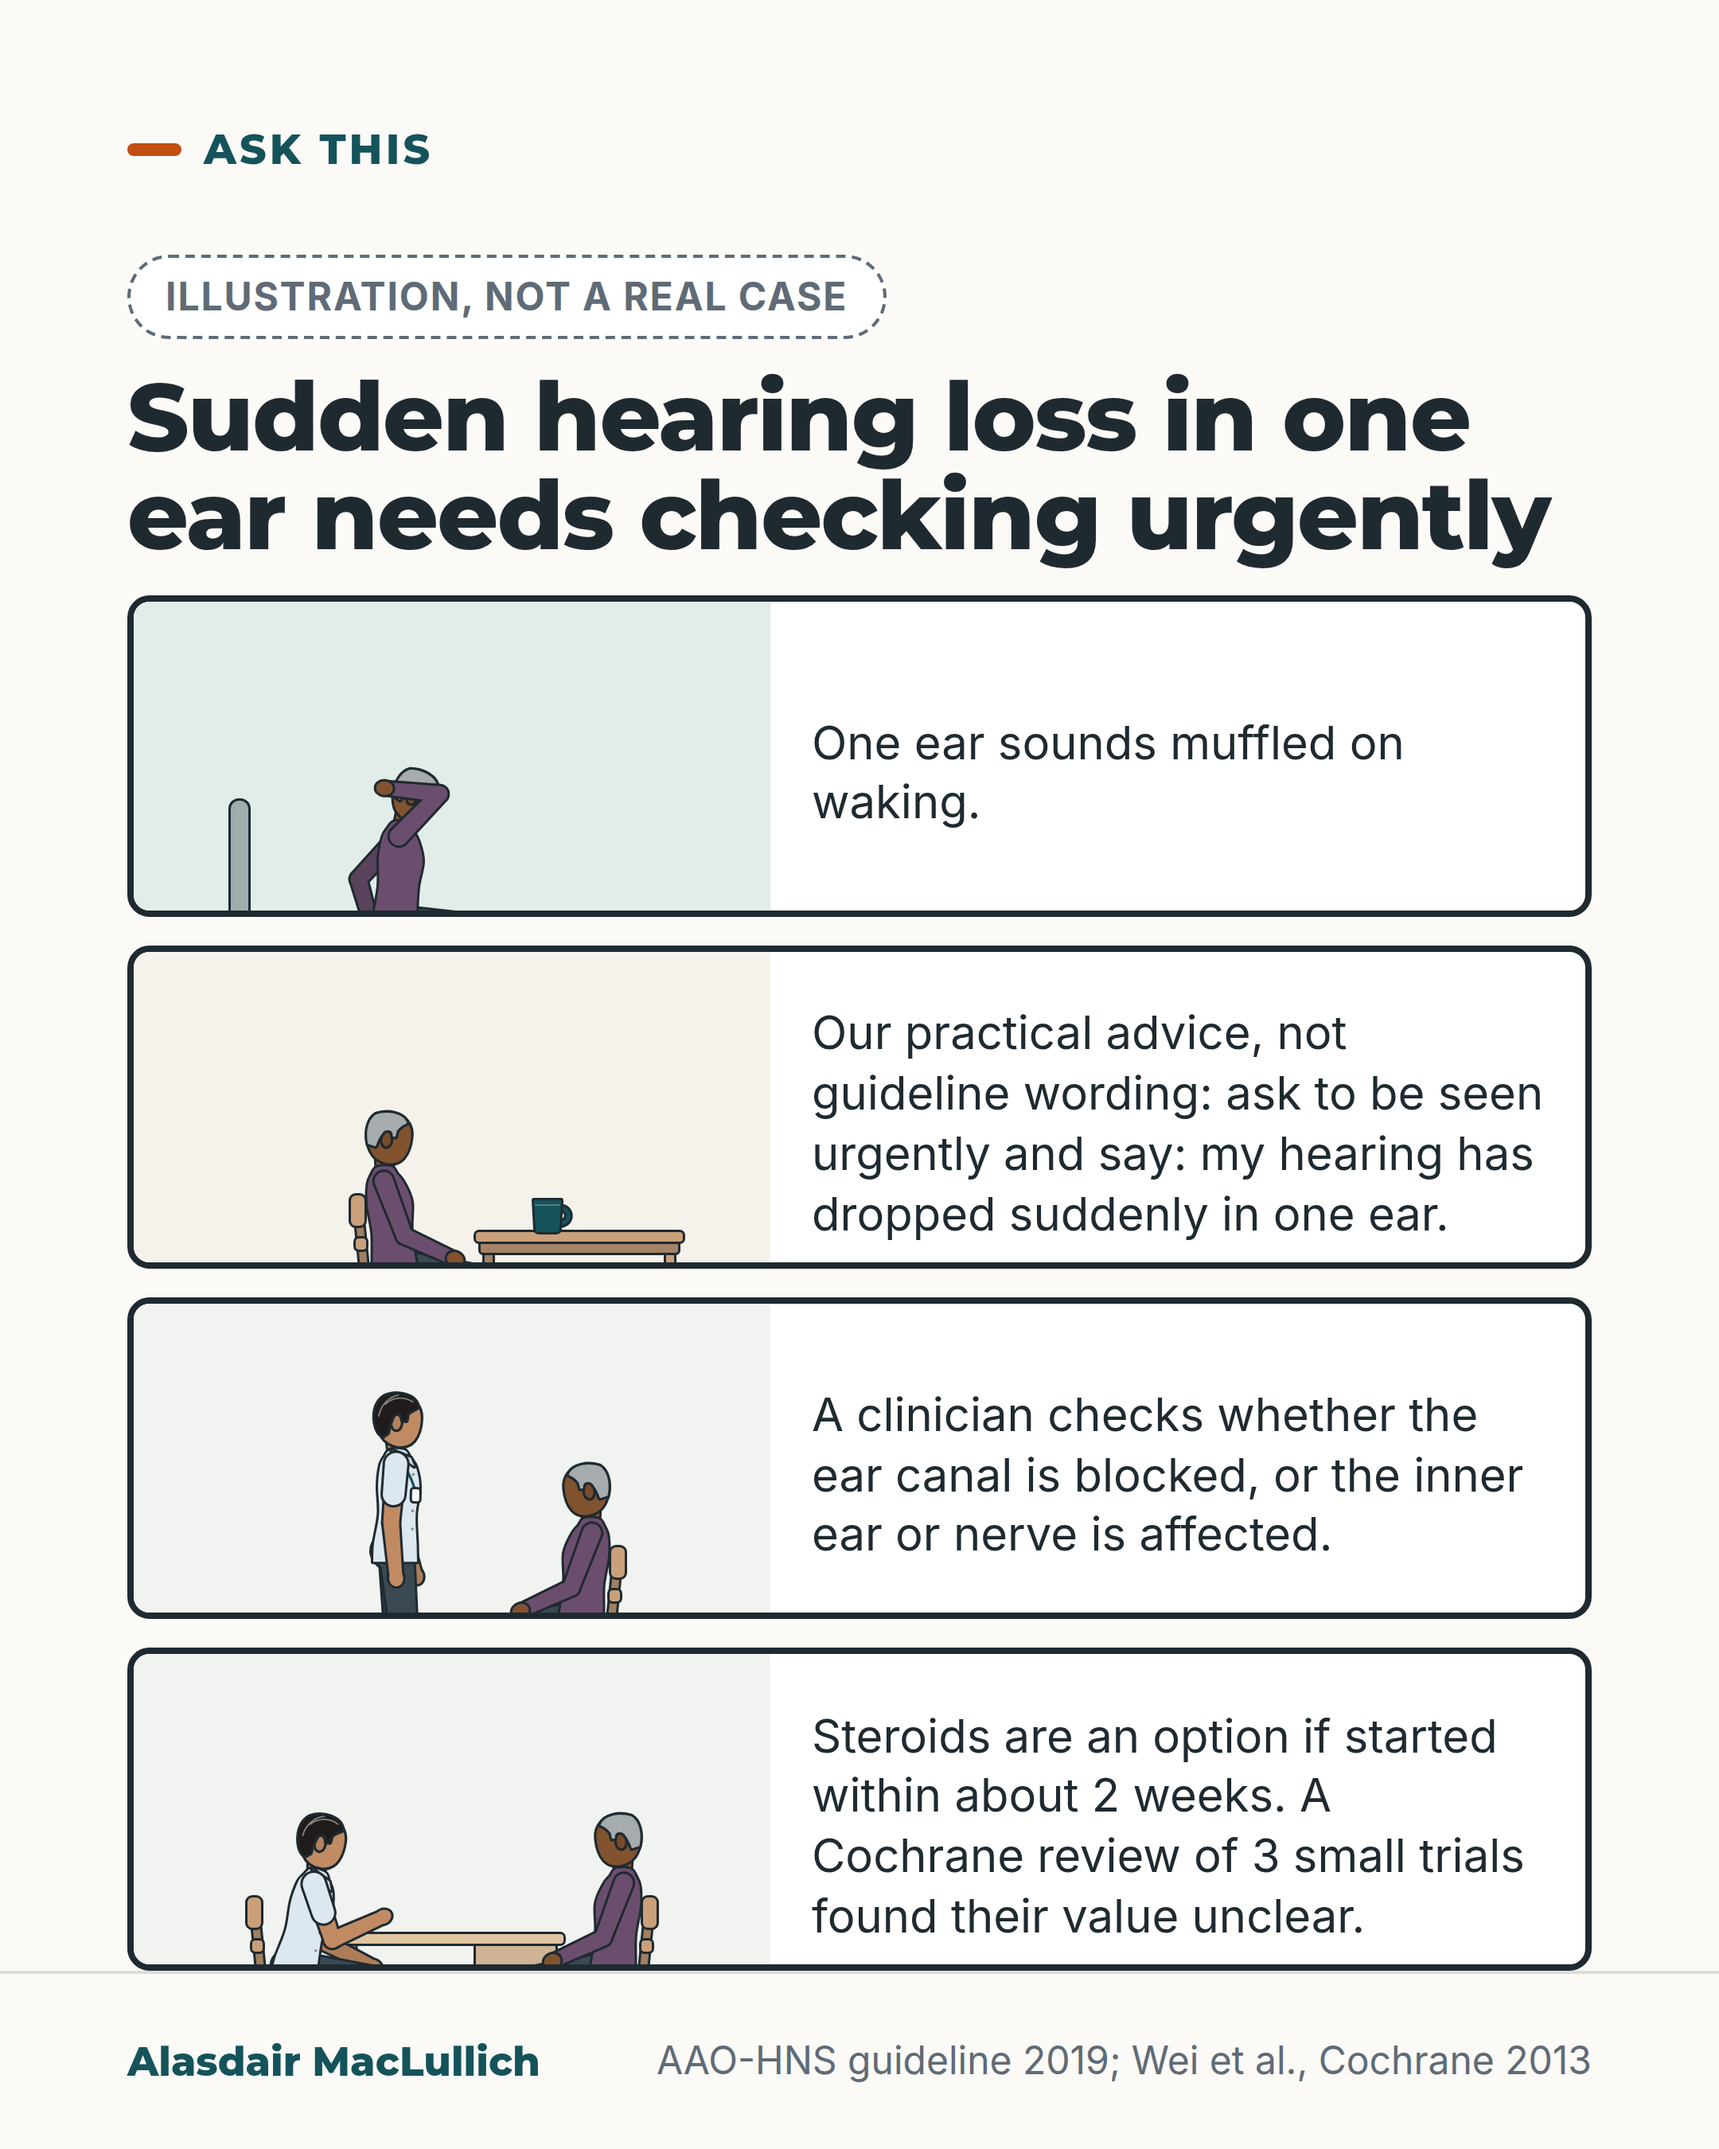
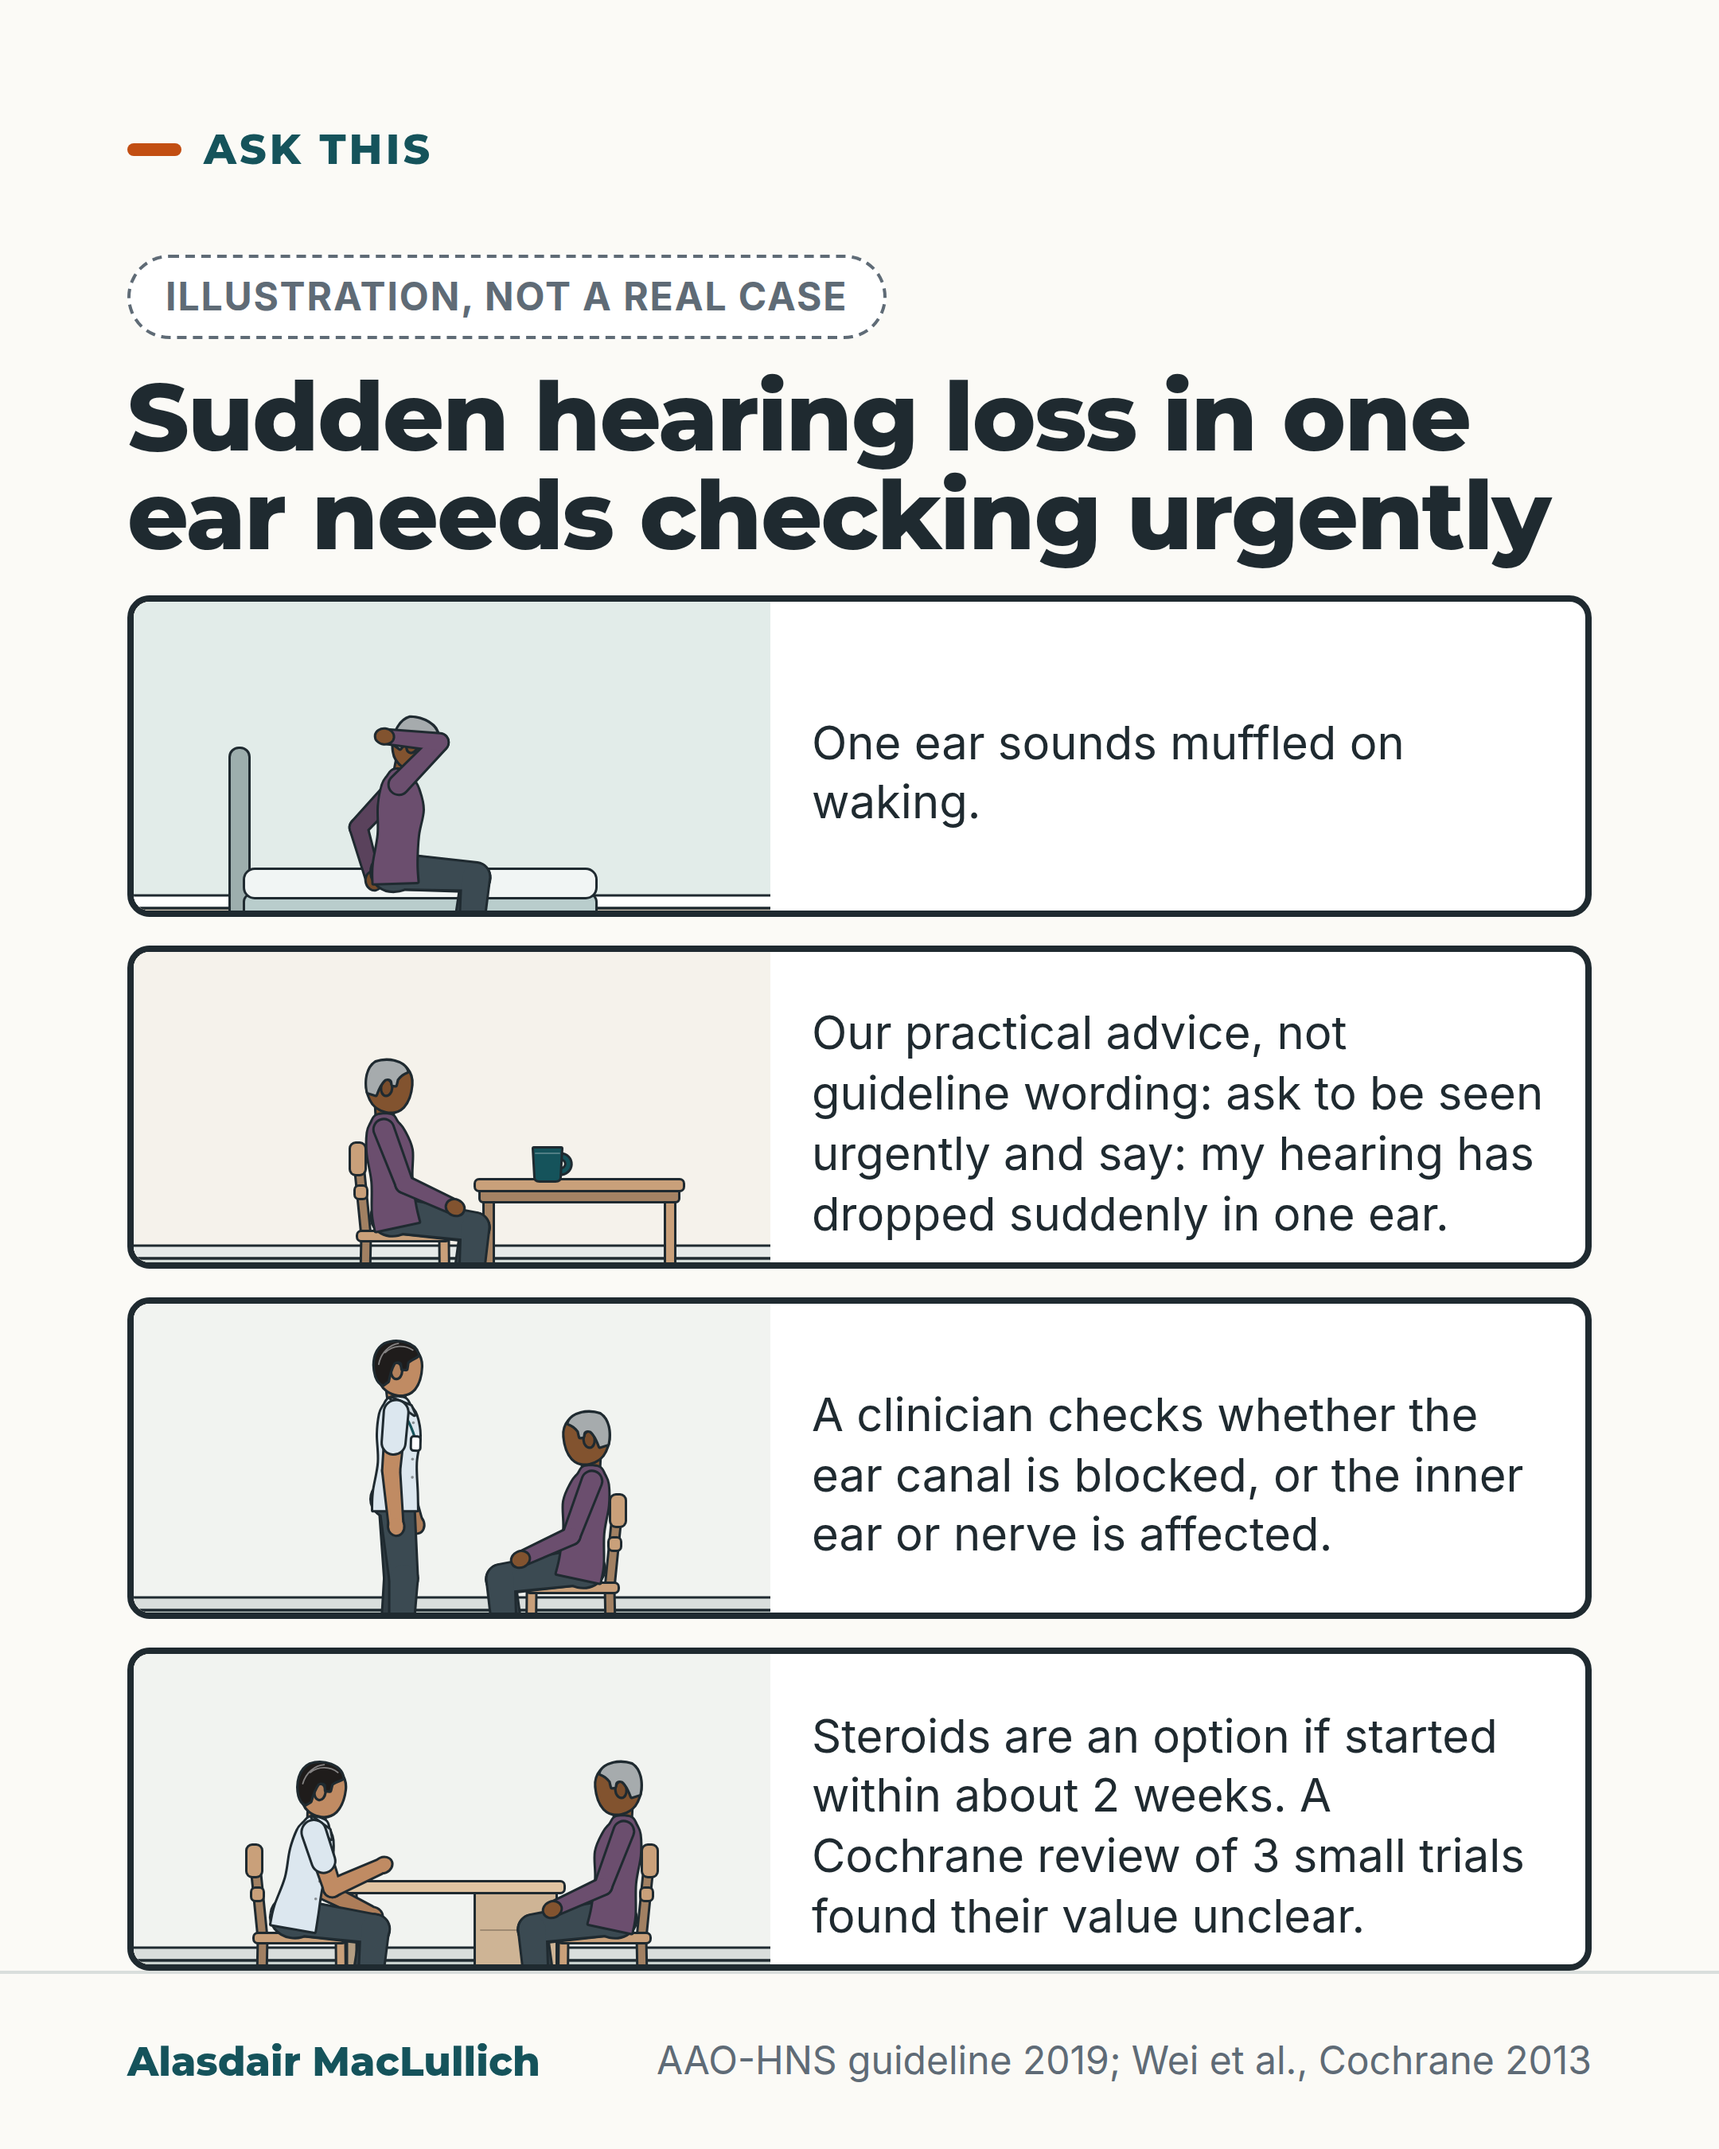
WIP

diff --git a/geriatrics-200_2026-09-25/visuals/src/C14-P02.html b/geriatrics-200_2026-09-25/visuals/src/C14-P02.html
@@ -31,19 +31,19 @@
 </div>
 <script>window.__ready=false;
 
-const W=800,H=430,g=520,S=1.0;
+const W=800,H=430,g=455,S=1.0;
 const f={age:'older',sex:'f',skin:'brown',hair:'grey',hairStyle:'cropped',top:'plum',bottom:'slate'};
 const bd=Kit.anchor('bed',{x:360,y:g,scale:S,type:'domestic'});
 Kit.draw('#a1',W,H,[Kit.room('home_bedroom',{w:W,h:H,ground:g,scale:S}),Kit.bed({x:360,y:g,type:'domestic',colour:'pale'}),
- Kit.person(Object.assign({pose:'seated_side',seat:'none',seatHeight:Kit.dims.bedTop||95,x:330,y:g,scale:S,facing:'right',tilt:8},f,{hands:{near:Kit.joint(Object.assign({pose:'seated_side',x:330,y:g,scale:S},f),'head'),far:{x:300,y:g-110}}}))]);
+ Kit.person(Object.assign({pose:'seated_side',seat:'none',seatHeight:Kit.dims.bedTop||95,x:330,y:g,scale:S,facing:'right',tilt:8},f,{hands:{near:Kit.joint(Object.assign({pose:'seated_side',x:330,y:g,scale:S},f),'head'),far:{x:300,y:g-110}}}))],{cls:'art'});
 const tb=Kit.anchor('table',{x:560,y:g,scale:S});
 Kit.draw('#a2',W,H,[Kit.room('kitchen',{w:W,h:H,ground:g,scale:S}),Kit.table({x:560,y:g,scale:S}),Kit.cup({x:tb.top.x-40,y:tb.top.y,scale:S}),
- Kit.person(Object.assign({pose:'seated_side',seat:'chair',x:330,y:g,scale:S,facing:'right',hold:'phone'},f))]);
+ Kit.person(Object.assign({pose:'seated_side',seat:'chair',x:330,y:g,scale:S,facing:'right',hold:'phone'},f))],{cls:'art'});
 Kit.draw('#a3',W,H,[Kit.room('gp_room',{w:W,h:H,ground:g,scale:S}),
  Kit.person(Object.assign({pose:'seated_side',seat:'chair',x:560,y:g,scale:S,facing:'left'},f)),
- Kit.person({pose:'standing',role:'doctor',x:330,y:g,scale:S,skin:'olive',hair:'black',sex:'m',hairStyle:'short',facing:'right'})]);
+ Kit.person({pose:'standing',role:'doctor',x:330,y:g,scale:S,skin:'olive',hair:'black',sex:'m',hairStyle:'short',facing:'right'})],{cls:'art'});
 Kit.draw('#a4',W,H,[Kit.room('gp_room',{w:W,h:H,ground:g,scale:S}),Kit.desk({x:400,y:g,w:280,scale:S}),
  Kit.person(Object.assign({pose:'seated_side',seat:'chair',x:600,y:g,scale:S,facing:'left'},f)),
- Kit.person({pose:'seated_talking',role:'doctor',x:200,y:g,scale:S,skin:'olive',hair:'black',sex:'m',hairStyle:'short',facing:'right'})]);
+ Kit.person({pose:'seated_talking',role:'doctor',x:200,y:g,scale:S,skin:'olive',hair:'black',sex:'m',hairStyle:'short',facing:'right'})],{cls:'art'});
 
 window.__ready=true;</script></body></html>

diff --git a/geriatrics-200_2026-09-25/visuals/src/C06-P01.html b/geriatrics-200_2026-09-25/visuals/src/C06-P01.html
@@ -3,15 +3,15 @@
 <script>window.__ready = false;</script>
 <script src="../design_system/chart.js"></script>
 <script src="../design_system/kit.js"></script></head><body><div class="sheet"><style>
-.flow{margin-top:26px}.flow .step{font-size:31px;padding:20px 28px}.flow .arrow{height:44px}
+.flow{margin-top:26px}.flow .step{font-size:29px;padding:14px 26px}.flow .arrow{height:34px}.flow .arrow::before{border-top-width:16px}
 .flow .step.dash{border-style:dashed;border-color:var(--ink-2);background:transparent;color:var(--ink-2)}
 .flow .step.pale{background:var(--mint);border-style:dashed}
-.rev{margin-top:26px;border:4px solid var(--orange);border-radius:18px;padding:20px 28px;font-size:31px;font-weight:700;background:var(--white)}
+.rev{margin-top:20px;border:4px solid var(--orange);border-radius:18px;padding:20px 28px;font-size:31px;font-weight:700;background:var(--white)}
 </style>
 <div class="card" id="s1">
  <div class="topline"><span class="series">Teaching round</span></div>
  <div class="content">
-  <h1 class="m">One side effect, <em>one extra drug</em></h1>
+  <h1 class="s">One side effect, <em>one extra drug</em></h1>
   <div class="flow">
    <div class="step fill">Calcium channel blocker started (for example amlodipine)</div><div class="arrow"></div>
    <div class="step" style="background:var(--mint)">Ankle swelling: a known side effect</div><div class="arrow"></div>
